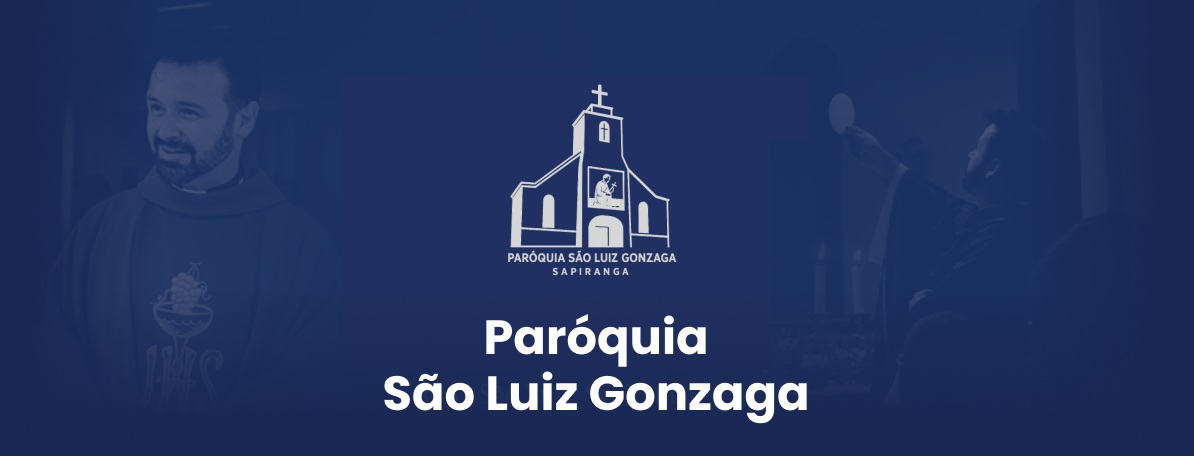
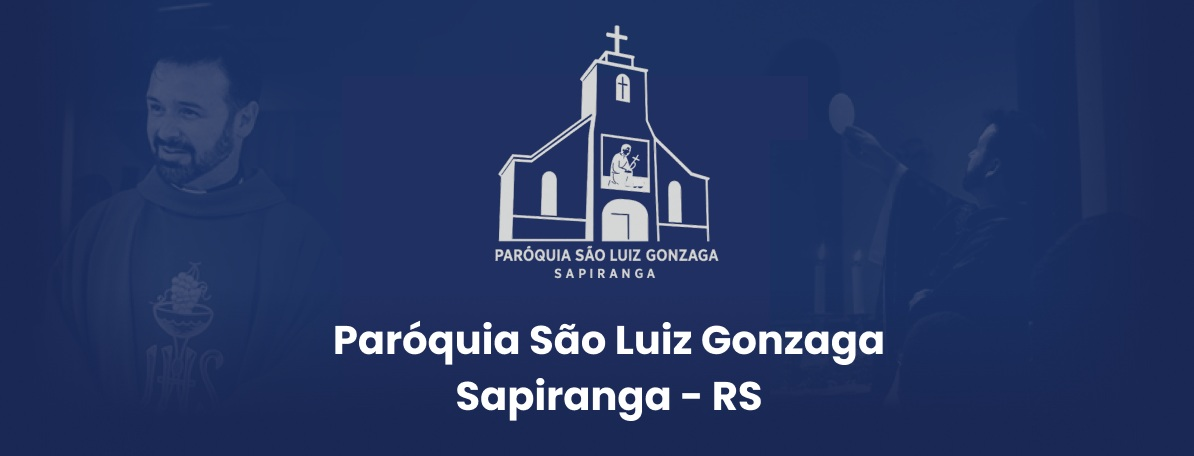
[feat]: update images

Changed region(s): [[0.2789, 0.6754, 0.7437, 0.9518], [0.4028, 0.0614, 0.6198, 0.614]]

diff --git a/src/components/Initial/initial-section.tsx b/src/components/Initial/initial-section.tsx
@@ -39,7 +39,7 @@ export function InitialSection() {
     }, []);
 
     return (
-        <Flex flexDir={'column'} justify={'center'} align={'center'} gap={8} bg={'#1A2855'} pb={8}>
+        <Flex flexDir={'column'} justify={'center'} align={'center'} gap={4} bg={'#1A2855'} pb={8}>
             <Flex maxW={'1000px'} pos={'relative'}>
                 <Image
                     src={isMobile ? headerImageMobile : headerImage}
@@ -52,9 +52,6 @@ export function InitialSection() {
             </Flex>
             <Stack color={'white'} px={4} textAlign={'center'} gap={8}>
                 <LiveStreamCard />
-                <Heading as={'h2'} color={'#F69F53'} fontSize={'lg'}>
-                    Rua Liberato Salzano Vieira da Cunha, 805 - São Luiz, Sapiranga - RS
-                </Heading>
                 <HighlightedNewsCard />
             </Stack>
             <HStack>
